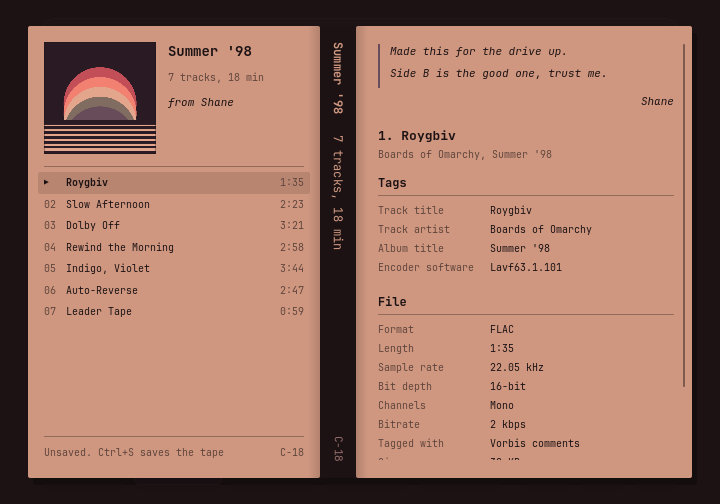
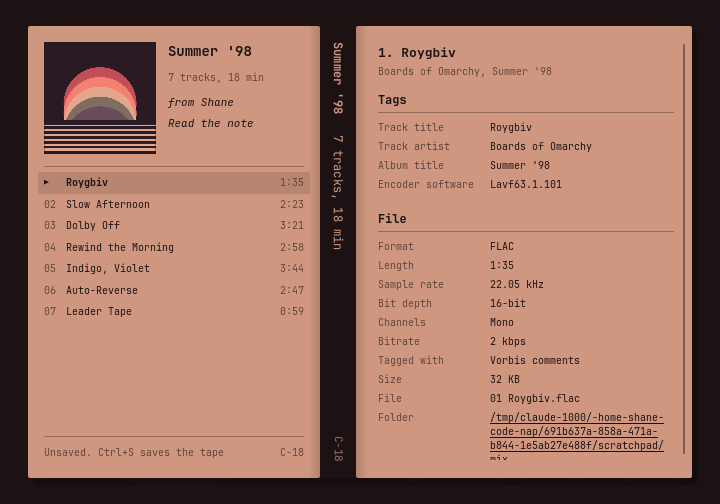
Tuck the note in as a slip, and open the insert from the whole title strip
The note was tape-level writing on the track-level side of the card. It is now
a slip of ruled paper reached from the tape's header, lifted over the card the
way the cover is. The cover lifts on a single click, and the label's whole
title strip opens the insert, with the side mark turning over as the hint.

diff --git a/src/Insert.qml b/src/Insert.qml
@@ -27,10 +27,14 @@ Item {
     signal renamed(string name)
     signal signed(string from)
     signal noted(string note)
-    // The cover, lifted off the card for a closer look. It never lands quite straight.
-    property bool zoomed: false
+    // Something lifted off the card for a closer look: the cover, or the note tucked in with the
+    // tape. Neither ever lands quite straight.
+    property string held: ""
+    readonly property bool zoomed: held !== ""
     property real tilt: 0
-    function zoom() { tilt = (1 + Math.random() * 1.6) * (Math.random() < 0.5 ? -1 : 1); zoomed = true }
+    function lift(what) { tilt = (1 + Math.random() * 1.6) * (Math.random() < 0.5 ? -1 : 1); held = what }
+    function zoom() { lift("cover") }
+    function putBack() { if (writing) writing.end(true); held = "" }
     signal playRequested(int index)
     signal moveRequested(int from, int to)
     signal removeRequested(int index)
@@ -45,7 +49,7 @@ Item {
     readonly property string summary: tracks.length + (tracks.length === 1 ? " track, " : " tracks, ") + Math.max(1, Math.round((tape.seconds || 0) / 60)) + " min"
     readonly property string spineNote: mixtape ? summary : card.artist || ""
     function minutes(seconds) { return Math.floor(seconds / 60) + ":" + String(seconds % 60).padStart(2, "0") }
-    onOpenChanged: if (!open) { selected = -1; typing = false; zoomed = false }
+    onOpenChanged: if (!open) { selected = -1; typing = false; held = "" }
     readonly property string pressing: [card.album, card.year].filter(part => part).join(", ")
     // 0 is the card as it sits in the case; 1 is the notes panel folded all the way out.
     property real unfold: open ? 1 : 0
@@ -118,12 +122,14 @@ Item {
         visible: opacity > 0; opacity: insert.zoomed ? 1 : 0; enabled: insert.zoomed
         Behavior on opacity { NumberAnimation { duration: 140 } }
         Rectangle { anchors.fill: parent; anchors.margins: -2000; color: Qt.alpha(insert.scrim, 0.55) }
-        MouseArea { anchors.fill: parent; anchors.margins: -2000; onClicked: insert.zoomed = false; onWheel: wheel => wheel.accepted = true }
+        // A click puts it back; while the note is being written, the first click only keeps the words.
+        MouseArea { anchors.fill: parent; anchors.margins: -2000; onClicked: insert.writing ? insert.writing.end(true) : insert.putBack(); onWheel: wheel => wheel.accepted = true }
         Rectangle {
             id: photo
             readonly property real side: Math.min(parent.width, parent.height) - 96
             // Kept to the picture's own shape, within the square the card allows.
             readonly property real shape: closeUp.implicitWidth > 0 ? closeUp.implicitHeight / closeUp.implicitWidth : 1
+            visible: insert.held !== "note"
             anchors.centerIn: parent; anchors.verticalCenterOffset: insert.zoomed ? 0 : 14
             width: (shape > 1 ? side / shape : side) + 20; height: (shape > 1 ? side : side * shape) + 20
             rotation: insert.tilt; scale: insert.zoomed ? 1 : 0.94; antialiasing: true
@@ -132,6 +138,39 @@ Item {
             Rectangle { z: -1; x: 6; y: 9; width: parent.width; height: parent.height; radius: 3; color: Qt.alpha("black", 0.35); antialiasing: true }
             Image { id: closeUp; anchors.fill: parent; anchors.margins: 10; source: insert.zoomed || lifted.visible ? picture.source : ""; fillMode: Image.PreserveAspectFit; asynchronous: true; mipmap: true; smooth: true }
         }
+        // The note that came with the tape: a slip of ruled paper, written on directly.
+        Rectangle {
+            visible: slip.visible
+            x: slip.x + 6; y: slip.y + 9; width: slip.width; height: slip.height; radius: 3
+            rotation: slip.rotation; scale: slip.scale; color: Qt.alpha("black", 0.4); antialiasing: true
+        }
+        Rectangle {
+            id: slip
+            visible: insert.held === "note"
+            anchors.centerIn: parent; anchors.verticalCenterOffset: insert.zoomed ? 0 : 14
+            width: 400; height: Math.max(220, Math.min(400, words.implicitHeight + 96))
+            rotation: insert.tilt; scale: insert.zoomed ? 1 : 0.94; antialiasing: true
+            color: Qt.tint(insert.paper, Qt.alpha("white", 0.12)); radius: 2; clip: true
+            Behavior on scale { NumberAnimation { duration: 160; easing.type: Easing.OutCubic } }
+            FontMetrics { id: hand; font.family: insert.mono; font.pixelSize: 13; font.italic: true }
+            // Clicks on the paper are for writing, not for putting it away.
+            MouseArea { anchors.fill: parent; onClicked: if (insert.writing) insert.writing.end(true); onDoubleClicked: words.begin() }
+            Repeater {
+                model: Math.floor((slip.height - 56) / hand.lineSpacing)
+                Rectangle { required property int index; x: 28; y: 34 + (index + 1) * hand.lineSpacing; width: slip.width - 56; height: 1; color: insert.inkDim; opacity: 0.35 }
+            }
+            Rectangle { x: 20; width: 1; height: parent.height; color: insert.stripe; opacity: 0.6 }
+            Editable {
+                id: words
+                x: 28; y: 34 + hand.lineSpacing - hand.ascent - 3; width: slip.width - 56
+                text: insert.tape.note || ""; placeholder: "Write a note to go with this tape"
+                size: 13; lines: 17; weight: Font.Normal; italic: true; multiline: true
+                onCommitted: text => insert.noted(text)
+            }
+            Text { visible: !!insert.tape.from; anchors.right: parent.right; anchors.rightMargin: 28; anchors.bottom: parent.bottom; anchors.bottomMargin: 18; text: insert.tape.from || ""; font: hand.font; color: insert.ink }
+        }
+        // An empty slip is for writing on, so it arrives ready.
+        Connections { target: insert; function onHeldChanged() { if (insert.held === "note" && !insert.tape.note) words.begin() } }
     }
 
     Item {
@@ -197,7 +236,7 @@ Item {
                     anchors.fill: parent; source: insert.tape.coverUrl && insert.tape.coverUrl.toString() ? insert.tape.coverUrl : insert.card.cover || ""
                     fillMode: Image.PreserveAspectCrop; asynchronous: true; mipmap: true
                     sourceSize.width: 780; sourceSize.height: 780
-                    MouseArea { anchors.fill: parent; enabled: picture.status === Image.Ready; cursorShape: Qt.PointingHandCursor; onDoubleClicked: insert.zoom(); Accessible.role: Accessible.Button; Accessible.name: "Look at the cover" }
+                    MouseArea { anchors.fill: parent; enabled: picture.status === Image.Ready; cursorShape: Qt.PointingHandCursor; onClicked: insert.zoom(); Accessible.role: Accessible.Button; Accessible.name: "Look at the cover" }
                 }
                 Rectangle { anchors.fill: parent; color: "transparent"; border.color: drops.overArt ? insert.ink : Qt.alpha(insert.ink, 0.35); border.width: drops.overArt ? 3 : 1 }
             }
@@ -215,15 +254,23 @@ Item {
             Item {
                 visible: insert.mixtape
                 x: 140; y: 16; width: 136
-                Editable { id: tapeName; width: parent.width; text: insert.title; size: 14; lines: 4; leading: 1.1; onCommitted: text => insert.renamed(text) }
+                Editable { id: tapeName; width: parent.width; text: insert.title; size: 14; lines: 3; leading: 1.1; onCommitted: text => insert.renamed(text) }
                 Text { id: tapeSummary; y: tapeName.implicitHeight + 8; width: parent.width; text: insert.byline; wrapMode: Text.Wrap; font.family: insert.mono; font.pixelSize: 10; color: insert.inkDim }
                 Editable {
+                    id: signature
                     y: tapeSummary.y + tapeSummary.implicitHeight + 10; width: parent.width
                     text: insert.tape.from ? "from " + insert.tape.from : ""; placeholder: "Sign your name"
                     size: 11; lines: 2; weight: Font.Normal; italic: true
                     // The word "from" is printed on the card; only the name is yours to write.
                     draft: insert.tape.from || ""
                     onCommitted: text => insert.signed(text)
+                }
+                Text {
+                    y: signature.y + signature.implicitHeight + 6; width: parent.width
+                    text: insert.tape.note ? "Read the note" : "Tuck in a note"
+                    font.family: insert.mono; font.pixelSize: 11; font.italic: true; font.underline: noteLink.containsMouse
+                    color: insert.tape.note ? insert.ink : insert.inkDim; opacity: insert.tape.note ? 1 : 0.75
+                    MouseArea { id: noteLink; anchors.fill: parent; anchors.margins: -3; hoverEnabled: true; cursorShape: Qt.PointingHandCursor; onClicked: insert.lift("note"); Accessible.role: Accessible.Button; Accessible.name: parent.text }
                 }
             }
             Rectangle { visible: insert.mixtape; x: 16; y: 140; width: 260; height: 1; color: insert.inkDim; opacity: 0.55 }
@@ -354,19 +401,6 @@ Item {
                                 }
                             }
                         }
-                    }
-                    Item {
-                        visible: insert.mixtape
-                        width: prose.width; height: note.implicitHeight + (insert.tape.from ? 34 : 18)
-                        Rectangle { width: 2; height: note.implicitHeight; color: insert.stripe }
-                        Editable {
-                            id: note
-                            x: 12; width: parent.width - 12
-                            text: insert.tape.note || ""; placeholder: "Write a note to go with this tape"
-                            size: 11; lines: 40; leading: 1.45; weight: Font.Normal; italic: true; multiline: true
-                            onCommitted: text => insert.noted(text)
-                        }
-                        Text { visible: !!insert.tape.from && !!insert.tape.note; x: 12; y: note.implicitHeight + 6; width: parent.width - 12; horizontalAlignment: Text.AlignRight; text: insert.tape.from || ""; font.family: insert.mono; font.pixelSize: 11; font.italic: true; color: insert.ink }
                     }
                     Column {
                         visible: insert.mixtape

diff --git a/src/Main.qml b/src/Main.qml
@@ -80,7 +80,7 @@ ApplicationWindow {
     Shortcut { enabled: !win.typing; sequence: "Q"; onActivated: Qt.quit() }
     Shortcut { enabled: !win.typing; sequence: "?"; onActivated: win.helpVisible = !win.helpVisible }
     Shortcut { enabled: !win.typing; sequence: "K"; onActivated: win.helpVisible = !win.helpVisible }
-    Shortcut { enabled: !win.typing; sequence: "Escape"; onActivated: { if (win.helpVisible) win.helpVisible = false; else if (jcard.zoomed) jcard.zoomed = false; else win.showInsert(false) } }
+    Shortcut { enabled: !win.typing; sequence: "Escape"; onActivated: { if (win.helpVisible) win.helpVisible = false; else if (jcard.zoomed) jcard.putBack(); else win.showInsert(false) } }
     FileDialog {
         id: picker; title: "Load a tape"; fileMode: FileDialog.OpenFiles
         nameFilters: ["Audio and tapes (*.mp3 *.flac *.wav *.ogg *.opus *.m4a *.aac *.aiff *.aif *.wma *.ape *.alac *.wv *.tape *.jcard)", "All files (*)"]
@@ -124,12 +124,12 @@ ApplicationWindow {
                 id: label
                 x: 30; y: 22; width: 580; height: 252; radius: 8
                 color: paper
-                // The side mark doubles as the way into the insert: under the pointer it turns over to show
+                // The side mark hints at the way into the insert: with the pointer on the title strip it turns over to show
                 // a pictogram of the card, cover art above lines of type.
                 Rectangle {
                     id: insertBadge
                     objectName: "insertBadge"
-                    readonly property bool turned: badgeArea.containsMouse && deck.loaded
+                    readonly property bool turned: titleStrip.containsMouse && deck.loaded
                     x: 20; y: 16; width: 30; height: 30; radius: 3
                     color: turned ? ink : "transparent"; border.color: ink; border.width: 2
                     Text { visible: !parent.turned; anchors.centerIn: parent; text: "A"; font.family: mono; font.pixelSize: 18; font.weight: Font.Bold; color: ink }
@@ -141,15 +141,17 @@ ApplicationWindow {
                         Rectangle { x: 7; y: 17; width: 16; height: 2; color: paper }
                         Rectangle { x: 7; y: 21; width: 11; height: 2; color: paper }
                     }
-                    MouseArea {
-                        id: badgeArea
-                        anchors.fill: parent; anchors.margins: -4; hoverEnabled: true; enabled: deck.loaded
-                        cursorShape: Qt.PointingHandCursor
-                        onClicked: win.showInsert(true)
-                        Accessible.role: Accessible.Button; Accessible.name: "Unfold the insert"
-                    }
                 }
                 Text { x: 62; y: 17; width: 498; text: win.mixtape ? (win.tape.name || "Untitled tape") : deck.filename; elide: Text.ElideMiddle; font.family: mono; font.pixelSize: 19; font.weight: Font.Bold; color: ink }
+                // So much lives in the insert that the whole title strip opens it; the side mark turning
+                // over under the pointer is the hint, not the target.
+                MouseArea {
+                    id: titleStrip
+                    width: parent.width; height: 52; hoverEnabled: true; enabled: deck.loaded
+                    cursorShape: Qt.PointingHandCursor
+                    onClicked: win.showInsert(true)
+                    Accessible.role: Accessible.Button; Accessible.name: "Unfold the insert"
+                }
                 Rectangle { x: 20; y: 52; width: 540; height: 1; color: inkDim; opacity: 0.55 }
                 Text { x: 20; y: 59; width: 390; text: !deck.loaded ? "Drop audio or a tape here, or press O to open one" : win.mixtape ? (win.tape.index + 1) + " of " + win.tape.tracks.length + "  ·  " + deck.filename : deck.detail; elide: Text.ElideRight; font.family: mono; font.pixelSize: 10; color: inkDim }
                 Text { x: 410; y: 58; width: 150; horizontalAlignment: Text.AlignRight; text: clock(deck.position) + " / " + clock(deck.duration); font.family: mono; font.pixelSize: 11; font.weight: Font.DemiBold; color: ink }
@@ -308,7 +310,7 @@ ApplicationWindow {
                     Text { text: modelData[1]; font.family: mono; font.pixelSize: 12; color: fg }
                 }
             }
-            Text { topPadding: 8; width: parent.width; wrapMode: Text.Wrap; text: "Drag the ruled line on the label to seek. Tap REW or FWD to jump five seconds, or hold to wind; after STOP they become PREV and NEXT. Drag or scroll the grooves under the tape to set the volume. Click the A on the label to read the tape's insert, or the display between the reels to change it. Drop audio onto the open insert to build a mixtape: drag rows to reorder, double-click to play, and double-click its name to retitle it."; color: dim; font.family: mono; font.pixelSize: 11; lineHeight: 1.45 }
+            Text { topPadding: 8; width: parent.width; wrapMode: Text.Wrap; text: "Drag the ruled line on the label to seek. Tap REW or FWD to jump five seconds, or hold to wind; after STOP they become PREV and NEXT. Drag or scroll the grooves under the tape to set the volume. Click the label's title strip to read the tape's insert, or the display between the reels to change it. Drop audio onto the open insert to build a mixtape: drag rows to reorder, double-click to play, and double-click its name to retitle it."; color: dim; font.family: mono; font.pixelSize: 11; lineHeight: 1.45 }
             Text { text: "Esc or a click closes this."; color: dim; font.family: mono; font.pixelSize: 11 }
         }
     }

diff --git a/tests/player_test.cpp b/tests/player_test.cpp
@@ -171,10 +171,13 @@ private slots:
         QCOMPARE(p.insert()["file"].toList().first().toList().last().toString(), QString("WAV"));
         QTest::qWait(700); QVERIFY(w->grabWindow().save("build/insert-preview.png"));
         QTest::keyClick(w, Qt::Key_Escape); QVERIFY(!w->property("insertVisible").toBool());
+        // The whole title strip of the label opens the insert, not just the side mark on it.
         auto *badge = w->findChild<QQuickItem *>("insertBadge"); QVERIFY(badge);
-        QTest::mouseClick(w, Qt::LeftButton, Qt::NoModifier, badge->mapToScene(QPointF(15, 15)).toPoint());
-        QVERIFY(w->property("insertVisible").toBool());
-        QTest::keyClick(w, Qt::Key_I); QVERIFY(!w->property("insertVisible").toBool());
+        for (const auto &spot : {QPointF(15, 15), QPointF(500, 12)}) {
+            QTest::mouseClick(w, Qt::LeftButton, Qt::NoModifier, badge->mapToScene(spot).toPoint());
+            QVERIFY(w->property("insertVisible").toBool());
+            QTest::keyClick(w, Qt::Key_I); QVERIFY(!w->property("insertVisible").toBool());
+        }
         QTest::keyClick(w, Qt::Key_K); QVERIFY(w->property("helpVisible").toBool());
         QTest::keyClick(w, Qt::Key_Escape); QVERIFY(!w->property("helpVisible").toBool());
         auto *key = w->findChild<QQuickItem *>("playKey"); QVERIFY(key);
@@ -219,7 +222,14 @@ private slots:
             QVERIFY(std::abs(tilt) >= 1 && std::abs(tilt) <= 2.6); tilts << tilt;
         }
         QVERIFY(tilts.size() > 1); QVERIFY(card->property("zoomed").toBool());
+        QCOMPARE(card->property("held").toString(), QString("cover"));
         QTest::keyClick(w, Qt::Key_Escape);
+        QVERIFY(!card->property("zoomed").toBool()); QVERIFY(w->property("insertVisible").toBool());
+        // The note comes out the same way, and a click beside it puts it back.
+        QVERIFY(QMetaObject::invokeMethod(card, "lift", Q_ARG(QVariant, "note")));
+        QCOMPARE(card->property("held").toString(), QString("note")); QTest::qWait(250);
+        QVERIFY(w->grabWindow().save("build/note-preview.png"));
+        QTest::mouseClick(w, Qt::LeftButton, Qt::NoModifier, QPoint(12, 12));
         QVERIFY(!card->property("zoomed").toBool()); QVERIFY(w->property("insertVisible").toBool());
         QTest::qWait(50); QVERIFY(w->grabWindow().save("build/mixtape-preview.png"));
         QTest::keyClick(w, Qt::Key_Delete); QCOMPARE(p.tape()["tracks"].toList().size(), 1);

diff --git a/README.md b/README.md
@@ -77,7 +77,8 @@ The full installer requires an existing Hyprland Lua configuration and `xdg-mime
   REW and FWD then become PREV and NEXT, which find the start of a track (on a single file, its beginning).
 - **Lower cassette ridges:** click, drag, or scroll to set the player's volume.
 - **LOOP / MARK:** toggle repeat or save your place. LOOP latches down; each key's lamp lights while it applies.
-- **The label's A mark:** click it (or press I) to unfold the insert, a J-card with the
+- **The label's title strip:** click anywhere on it (or press I) to unfold the insert; the A mark
+  turns over under the pointer as the hint. It is a J-card with the
   embedded cover art, a spine, and liner notes listing the lyrics, every tag in the file
   (custom fields included), and its technical details. Click the folder to open it in your file manager. Files without art get a typeset cover.
 - **Plastic window:** a live display drawn from decoded PCM samples, with no synthetic animation.
@@ -130,13 +131,16 @@ now playing a tape. Drag rows to reorder, double-click one to play it, and use t
 Delete) to take it off. Double-click the tape's name to retitle it in place. Drop an image on the
 cover to make it the tape's own. The liner notes follow whichever track you pick out.
 
-A tape for a friend wants signing: double-click "Sign your name" under the tape's name, and
-"Write a note to go with this tape" at the top of the liner notes. Both are typed straight onto
-the card. In the note, Enter starts a new line; Ctrl+Enter or a click elsewhere keeps it, and Esc
-gives it up. Double-click a cover picture to lift it off the card for a closer look (it never
-lands quite straight); a click or Esc puts it back.
+A tape for a friend wants signing: double-click "Sign your name" under the tape's name and type
+straight onto the card. "Tuck in a note" beneath it lifts out a slip of ruled paper to write on;
+once there is one it reads "Read the note", and whoever gets the tape finds it in the same place.
+On the slip, Enter starts a new line; Ctrl+Enter or a click elsewhere keeps it, and Esc gives it
+up. Click a cover picture to lift it off the card for a closer look too. Neither the picture nor
+the note ever lands quite straight; a click beside them or Esc puts them back.
 
 ![a mixtape's insert](docs/mixtape.png)
+
+![the note that came with the tape](docs/note.png)
 
 Ctrl+S saves the tape, and the display between the reels becomes the progress bar while it packs.
 
